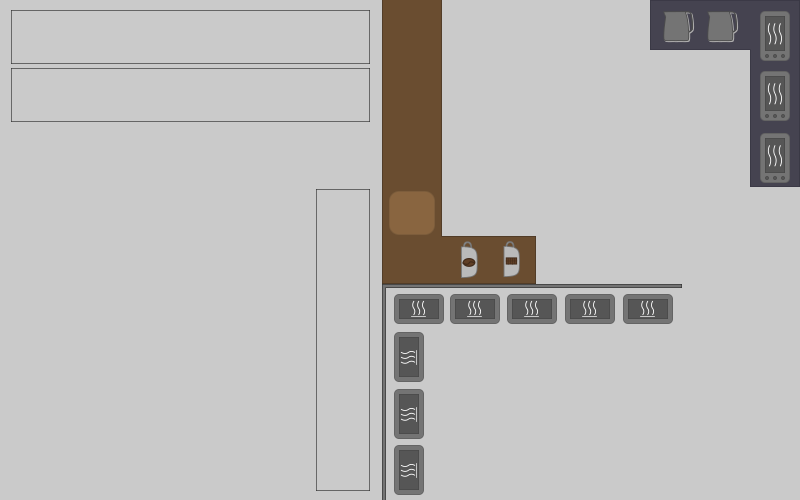
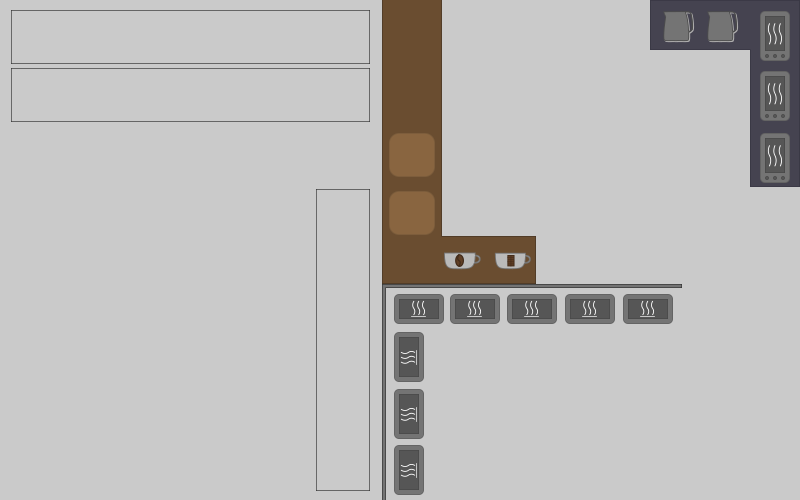
creation of transition for kfetiers

Changed region(s): [[0.4688, 0.27, 0.5625, 0.36], [0.5312, 0.48, 0.6562, 0.57]]

diff --git a/src/main/java/com/kfet/core/CoreController.java b/src/main/java/com/kfet/core/CoreController.java
@@ -1,9 +1,13 @@
 package com.kfet.core;
 
 import core.ControllerHR;
+import javafx.animation.Transition;
+import javafx.animation.TranslateTransition;
 import javafx.fxml.FXML;
+import javafx.scene.image.ImageView;
 import javafx.scene.paint.Color;
 import javafx.scene.shape.Circle;
+import javafx.util.Duration;
 
 import java.util.HashMap;
 import java.util.Map;
@@ -15,6 +19,12 @@ public class CoreController extends ControllerHR {
 
     @FXML
     private Map<Integer, Circle> Circles = new HashMap<>();
+
+    @FXML
+    private ImageView oute = new ImageView();
+
+    @FXML
+    private TranslateTransition transition = new TranslateTransition();
 
     @FXML
     private void initialize() {
@@ -34,10 +44,10 @@ public class CoreController extends ControllerHR {
         Circles.put(13, Kettle_1);
         Circles.put(14, Kettle_2);
         Circles.put(15,Chocolate);
-        Circles.put(getCashier().get(0).getId(), Cashier_1);
+        /*Circles.put(getCashier().get(0).getId(), Cashier_1);
         if (getCashier().size() == 2){
             Circles.put(getCashier().get(1).getId(), Cashier_2);
-        }
+        }*/
     }
 
     @FXML
@@ -223,6 +233,23 @@ public class CoreController extends ControllerHR {
                 Kettle_2.setStroke(Color.rgb(39,114,53));
                 break;
         }*/
+    }
+
+    @FXML
+    protected  void transition(){
+        transition(oute,-125,-100, 7);
+
+    }
+
+    @FXML
+    protected  void transition(ImageView sprite, int X, int Y, int device){
+        transition.setDuration(Duration.seconds(1.5));
+        transition.setToX(X);
+        transition.setToY(Y);
+        transition.setNode(sprite);
+        transition.playFromStart();
+        transition.setOnFinished(event -> notFree(device));
+
     }
 
 }
